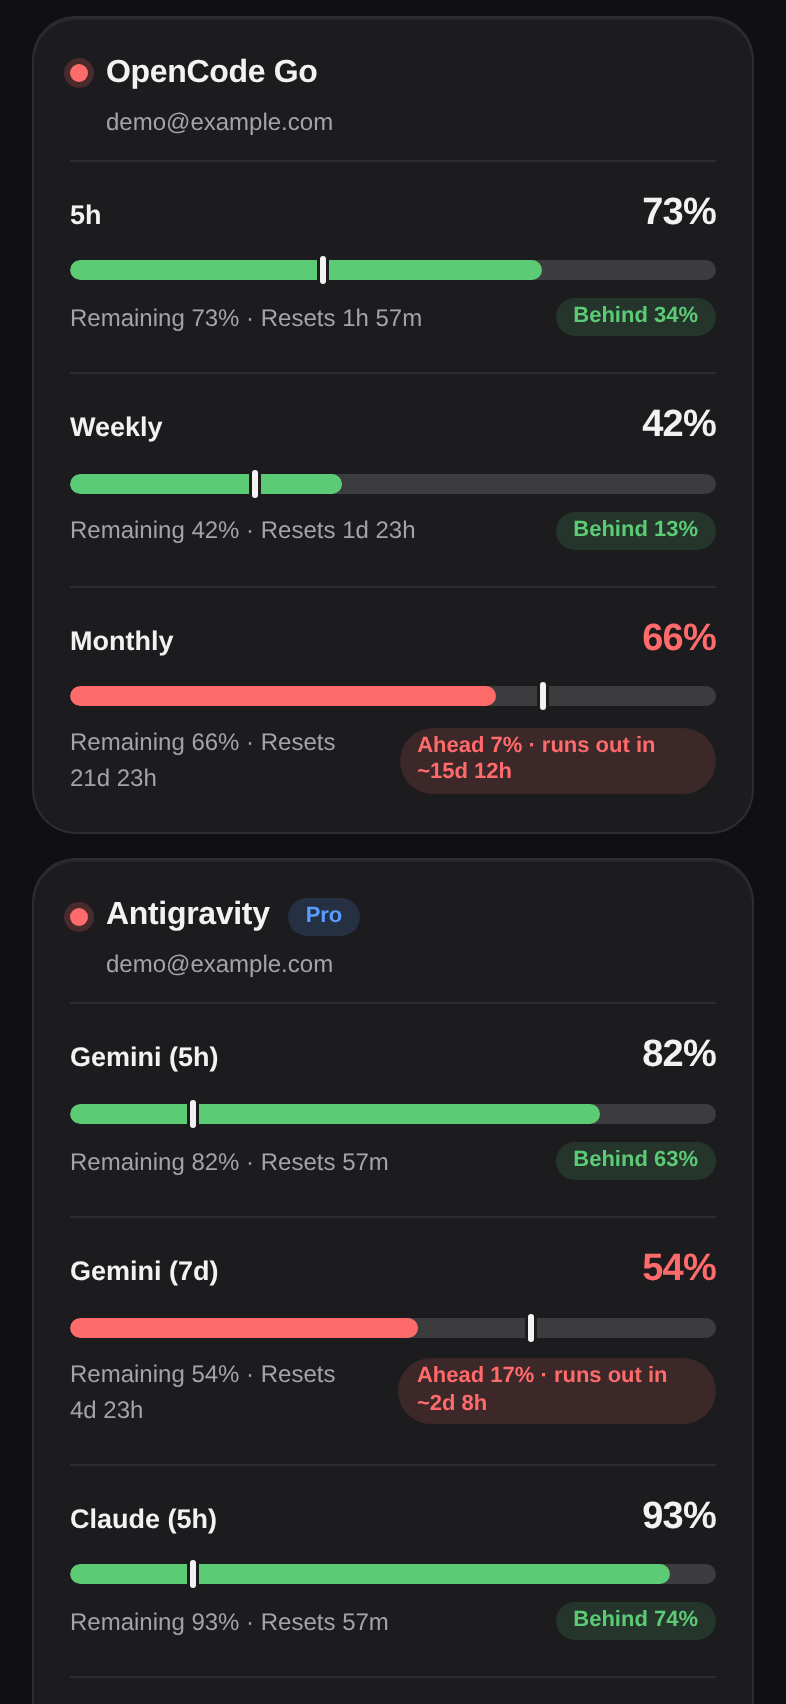
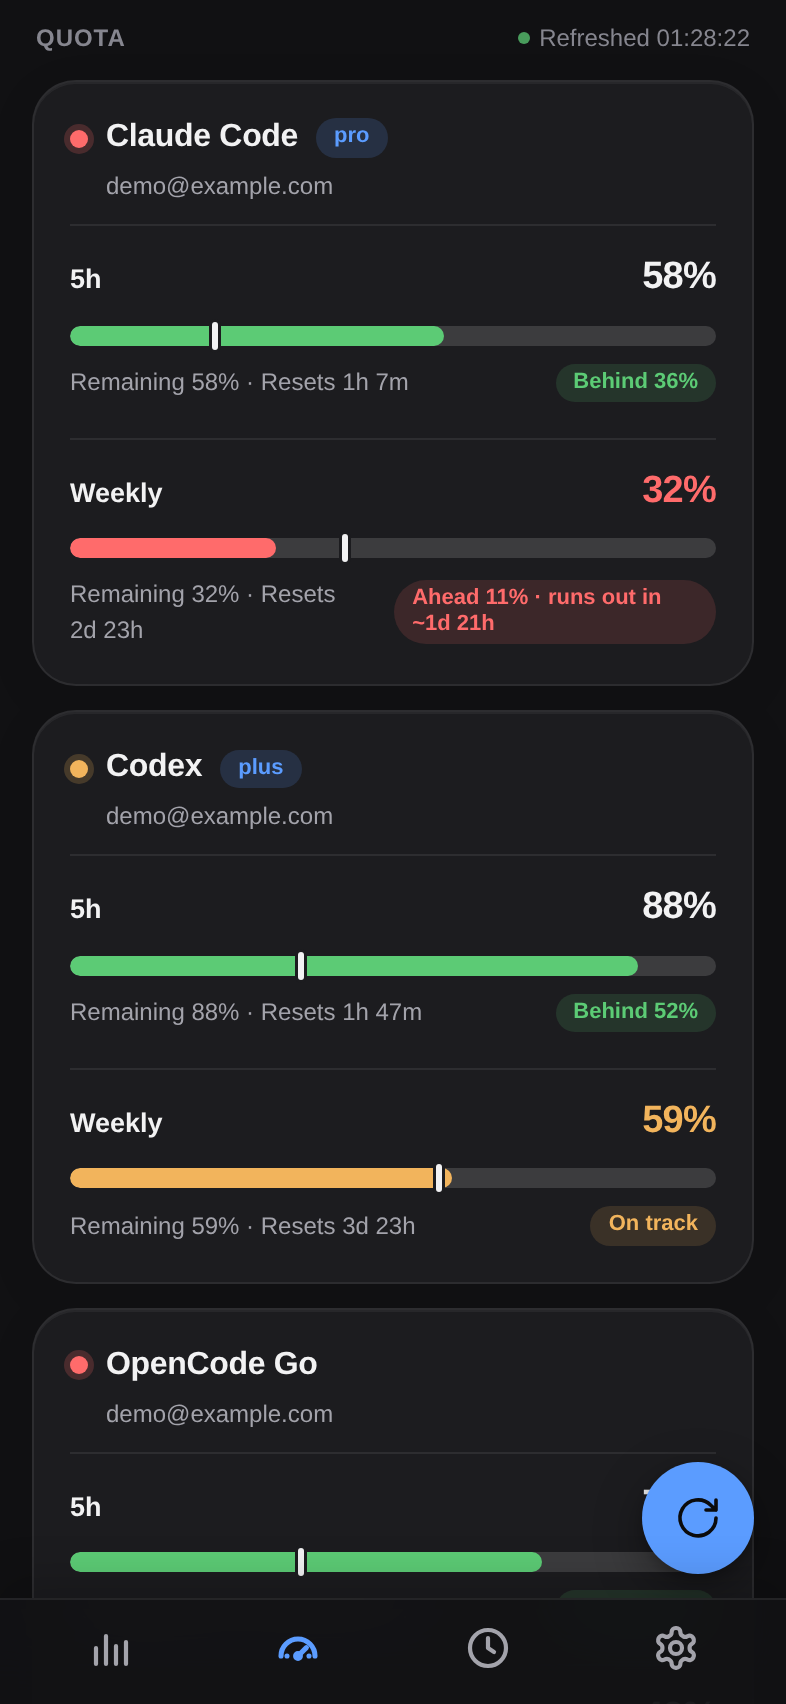
docs: capture mobile screenshots on first screen

diff --git a/docs/images/README.md b/docs/images/README.md
@@ -4,8 +4,8 @@ The two images in this directory show the mobile web dashboard. They are
 generated from a deterministic synthetic dataset and do not contain a real
 account, real usage, or real quota values.
 
-- `mobile-usage.png` — phone Usage, 7 days, By model
-- `mobile-quota.png` — phone Quota, OpenCode Go card
+- `mobile-usage.png` — phone Usage, first screen, 7 days, By model
+- `mobile-quota.png` — phone Quota, first screen
 
 ## Regenerate
 
@@ -30,9 +30,9 @@ TOKENPULSE_CONFIG_PATH=$PWD/.local/data/tokenpulse/config.toml \
 ```
 
 Open the pairing URL from the banner in a 393×852 phone viewport and enable
-subscription quota in Settings. Use 7 days and By model for the usage image,
-and scroll to the OpenCode Go card for the quota image. Keep the viewport at
-one phone screen; do not stitch a long page.
+subscription quota in Settings. Use 7 days and By model for the usage image.
+Both images are the first screen with the bottom tab bar visible; do not scroll
+and do not stitch a long page.
 
 The demo config starts with `display.refresh_quota=false` and
 `display.scan_antigravity=false`, so the test server does not contact a real
